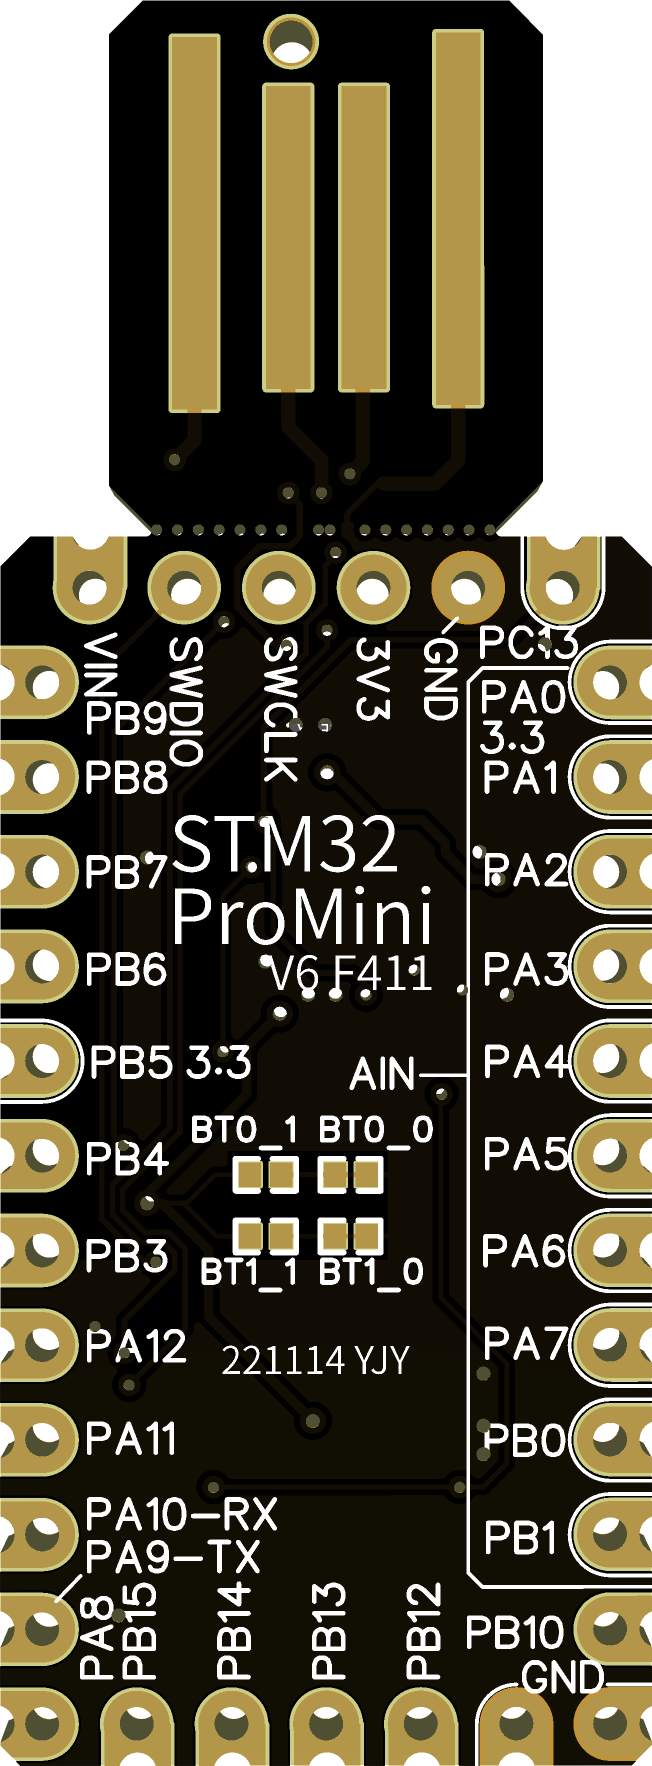
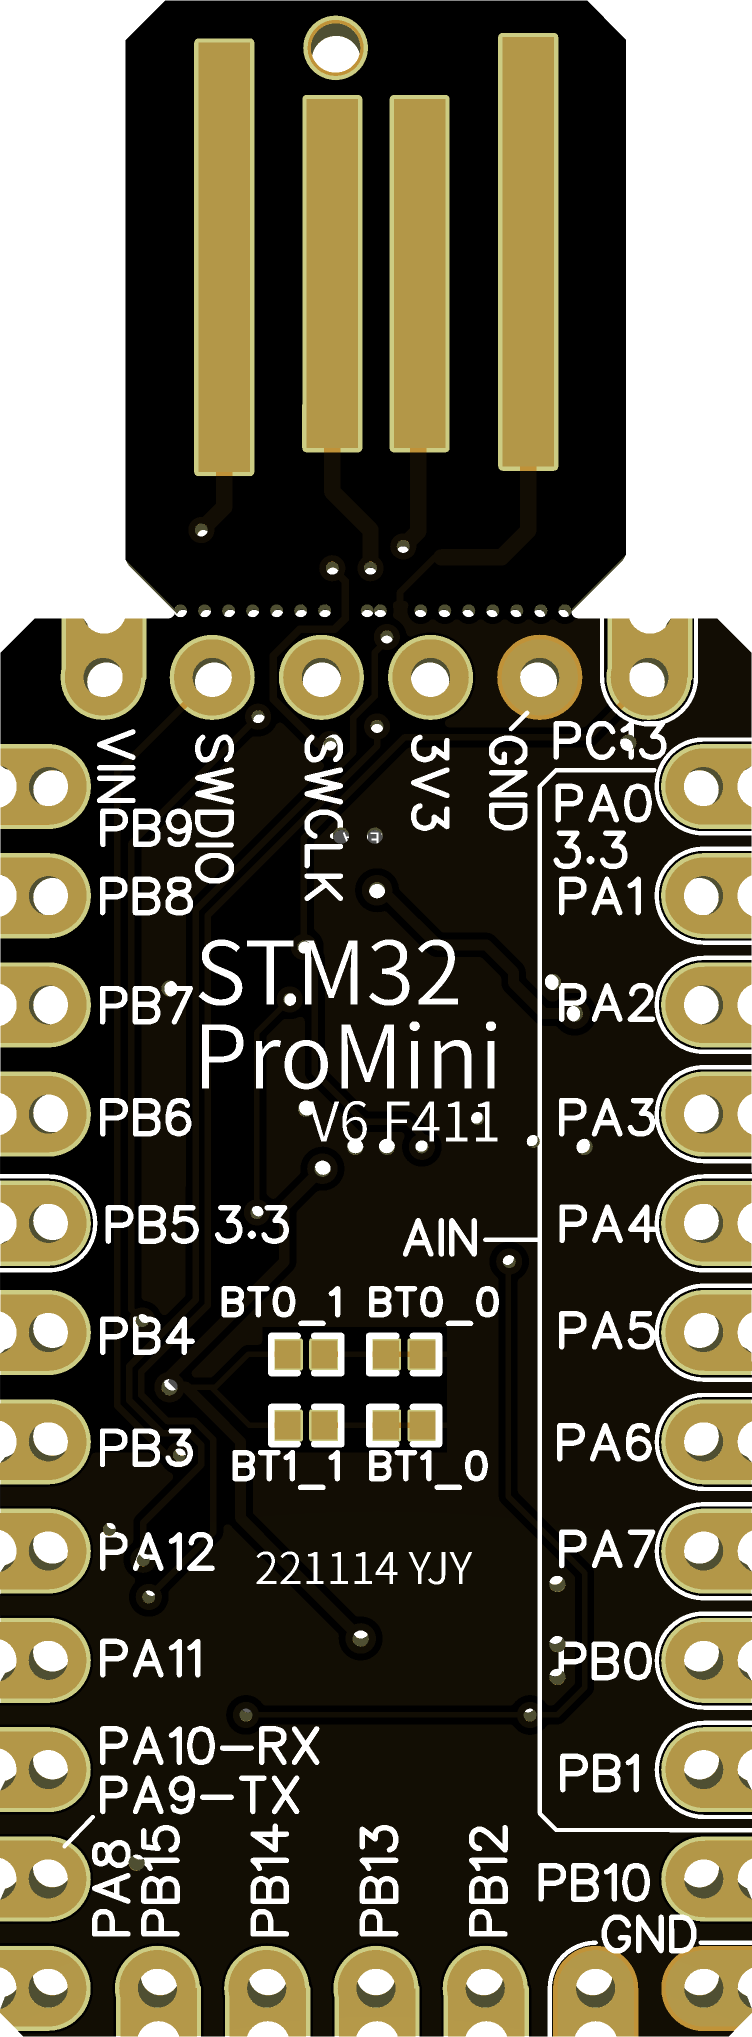
Update images & add pinmap

diff --git a/README.md b/README.md
@@ -5,6 +5,8 @@
 
 - Two main devices are being supported as of now, one with STM32F103Cx and the other with STM32F411Cx.
 
+<img src="pictures/pinmap.png" alt="" style="background-color: white;">
+
 <img src="pictures/back.png" alt= "" width="49%"><img src="pictures/front.png" alt= "" width="49%">
 
 ## Getting a board
